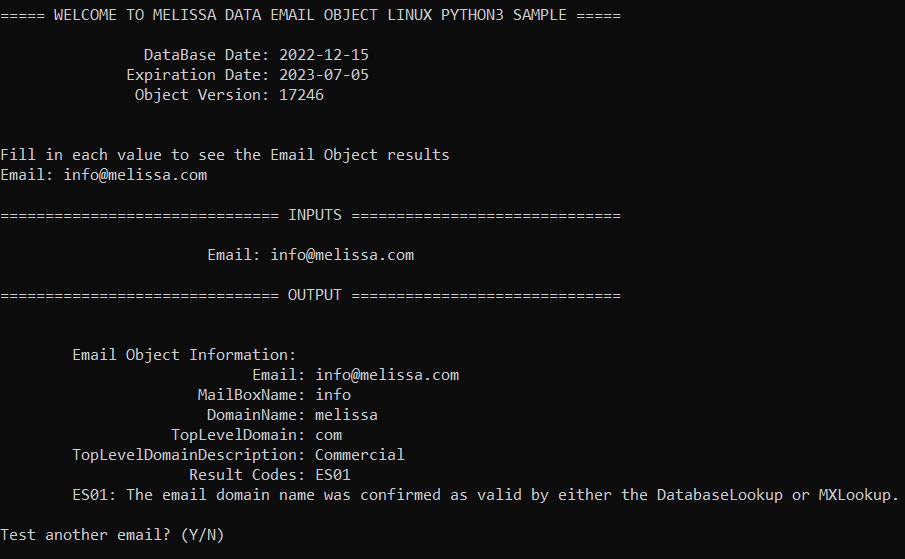
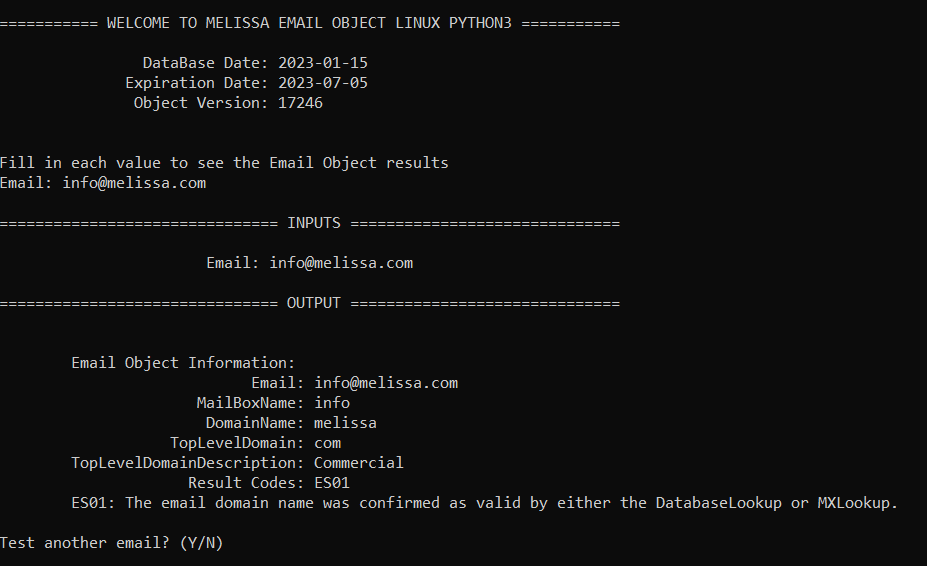
Commit Python3 code for Email Object with release notes

diff --git a/MelissaEmailObjectLinuxPython3/MelissaEmailObjectLinuxPython3.py b/MelissaEmailObjectLinuxPython3/MelissaEmailObjectLinuxPython3.py
@@ -33,7 +33,7 @@ class EmailObject:
         print(f"              Expiration Date: {self.md_email_obj.GetLicenseStringExpirationDate()}")
       
         """
-        This number should match with file properties of the Melissa Data Object binary file.
+        This number should match with file properties of the Melissa Object binary file.
         If TEST appears with the build number, there may be a license key issue.
         """
         print(f"               Object Version: {self.md_email_obj.GetBuildNumber()}\n")
@@ -52,8 +52,8 @@ class EmailObject:
         result_codes = self.md_email_obj.GetResults()
 
         """ 
-        ResultsCodes explain any issues email object has with the object.
-        List of result codes for Email object
+        ResultsCodes explain any issues Email Object has with the object.
+        List of result codes for Email Object
         https://wiki.melissadata.com/?title=Result_Code_Details#Email_Object
         """
 
@@ -81,7 +81,7 @@ def parse_arguments():
     return (license, test_email, data_path)
 
 def run_as_console(license, test_email, data_path):
-    print("\n\n===== WELCOME TO MELISSA DATA EMAIL OBJECT LINUX PYTHON3 SAMPLE =====\n")
+    print("\n\n=========== WELCOME TO MELISSA EMAIL OBJECT LINUX PYTHON3 ===========\n")
 
     email_object = EmailObject(license, data_path)
 
@@ -145,7 +145,7 @@ def run_as_console(license, test_email, data_path):
             
               print("Invalid Response, please respond 'Y' or 'N'")
 
-    print("\n=========== THANK YOU FOR USING MELISSA DATA PYTHON3 OBJECT =========\n")
+    print("\n============== THANK YOU FOR USING MELISSA PYTHON3 OBJECT ===========\n")
     
 
 

diff --git a/MelissaEmailObjectLinuxPython3/mdEmail_pythoncode.py b/MelissaEmailObjectLinuxPython3/mdEmail_pythoncode.py
@@ -6,15 +6,11 @@ import os
 
 dir = os.getcwd()
 
-#lib = ctypes.CDLL('libmdEmail.so')
-#lib = ctypes.CDLL(f'{dir}\libmdEmail.so')
-#lib = ctypes.CDLL(f'{dir}/MelissaDataEmailObjectWindowsPython3Sample/mdEmail.dll')
-
 
 if (os.name == 'nt'):
-  lib = ctypes.CDLL(f'{dir}/MelissaDataEmailObjectWindowsPython3Sample/mdEmail.dll')
+  lib = ctypes.CDLL(f'{dir}/MelissaEmailObjectWindowsPython3/mdEmail.dll')
 else:
-  lib = ctypes.CDLL(f'{dir}/MelissaDataEmailObjectLinuxPython3Sample/libmdEmail.so')
+  lib = ctypes.CDLL(f'{dir}/MelissaEmailObjectLinuxPython3/libmdEmail.so')
 
 lib.mdEmailCreate.argtypes = []
 lib.mdEmailCreate.restype = c_void_p

diff --git a/README.md b/README.md
@@ -1,8 +1,12 @@
-# Melissa Data Email Object Linux Python3 Sample
+# Melissa - Email Object Linux Python3
 
 ## Purpose
 
-This is a sample of the Melissa Data Email Object using Python3
+This code showcases the Melissa Email Object using Python3
+
+Please feel free to copy or embed this code to your own project. Happy coding!
+
+For the latest Melissa Email Object release notes, please visit: https://releasenotes.melissa.com/on-premise-api/email-object/
 
 The console will ask the user for:
 
@@ -26,7 +30,7 @@ And return
 
 #### libmdEmail.so
 
-This is the c++ code of the Melissa Data Object.
+This is the c++ code of the Melissa Object.
 
 #### Data File(s)
 - mdEmail.cfg
@@ -37,23 +41,13 @@ These instructions will get you a copy of the project up and running on your loc
 
 This project is compatible with Python3
 
-#### Install the Python3
+#### Install Python3
 Before starting, make sure that Python3 has been correctly installed on your machine and your environment paths are configured. 
 
 You can download Python here: 
 https://www.python.org/downloads/
 
-To set up your Path correctly to use the python3 command, execute the following steps:
-1) Run Powershell as an administrator 
-2) Execute the command: 
-`New-Item -ItemType SymbolicLink -Path "Link" -Target "Target"`
-
-    where "Target" is the path to py.exe (by default this should be "C:\Windows\py.exe")\
-    and "Link" is the path to py.exe, but "py.exe" is replaced with "python3.exe"\
-    For Example:\
-    `New-Item -ItemType SymbolicLink -Path "C:\Windows\python3.exe" -Target "C:\Windows\py.exe"`
-
-If you are unsure, you can check by opening a command prompt window and typing the following:
+You can check that your environment is set up correctly by opening a command prompt window and typing the following:
 `python3 --version`
 
 ![alt text](/screenshots/python_version.PNG)
@@ -97,26 +91,26 @@ Melissa Updater is a CLI application allowing the user to update their Melissa a
 
 #### Different ways to get data file(s)
 1.  Using Melissa Updater
-	- It will handle all of the data download/path and dll(s) for you. 
-2.  If you already have the latest DQS Release (ZIP), you can find the data file(s) and dll(s) in there
-	- Use the location of where you copied/installed the data and update the "$DataPath" variable in the powershell script.
-	- Copy all the dll(s) mentioned above into the `MelissaDataEmailObjectLinuxPython3Sample` project folder.
+	- It will handle all of the data download/path and .so file(s) for you. 
+2.  If you already have the latest DQS Release (ZIP), you can find the data file(s) and .so file(s) in there
+	- Use the location of where you copied/installed the data and update the "DataPath" variable in the bash script.
+	- Copy all the .so file(s) mentioned above into the `MelissaEmailObjectLinuxPython3` project folder.
 	
 ----------------------------------------
 ### Change Bash Script Permissions
 To be able to run the bash script, you must first make it an executable using the command:
 
-`chmod +x MelissaDataEmailObjectLinuxPython3Sample.sh`
+`chmod +x MelissaEmailObjectLinuxPython3.sh`
 
 Then you need to add permissions to the build directory with the command:
 
-`chmod +rwx MelissaDataEmailObjectLinuxPython3Sample`
+`chmod +rwx MelissaEmailObjectLinuxPython3`
 
 As an indicator, the filename will change colors once it becomes an executable.
 
-You may also need to alter permissions for the python files. To do this navigate into the MelissaDataEmailObjectLinuxPython3Sample directory and run these commands: \
- `chmod +rx MelissaDataEmailObjectLinuxPython3Sample/MelissaDataEmailObjectLinuxPython3Sample.py` \
- `chmod +rx MelissaDataEmailObjectLinuxPython3Sample/mdEmail_pythoncode.py`
+You may also need to alter permissions for the python files. To do this navigate into the MelissaEmailObjectLinuxPython3 directory and run these commands: \
+ `chmod +rx MelissaEmailObjectLinuxPython3/MelissaEmailObjectLinuxPython3.py` \
+ `chmod +rx MelissaEmailObjectLinuxPython3/mdEmail_pythoncode.py`
 
 ## Run Bash Script
 
@@ -125,30 +119,30 @@ Parameters:
  	
   This is convenient when you want to get results for a specific email address in one run instead of testing multiple email addresses in interactive mode.  
 
-- -l or --license (optional): a license string to test the email object
+- -l or --license (optional): a license string to test the Email Object
 
 - -q or --quiet (optional): add to the command if you do not want to get any console output from the Melissa Updater
 - Interactive 
 
-	The script will prompt the user for an email address, then use the provided email to test Email object. For example:
+	The script will prompt the user for an email address, then use the provided email to test Email Object. For example:
 	```
-	$ ./MelissaDataEmailObjectLinuxPython3Sample.sh
+	$ ./MelissaEmailObjectLinuxPython3.sh
 	```
     For quiet mode:
     ```
-    $ ./MelissaDataEmailObjectLinuxPython3Sample.sh --quiet
+    $ ./MelissaEmailObjectLinuxPython3.sh -quiet
     ```
 - Command Line 
 
-	You can pass an email in ```--email``` parameter and a license string in ```--license``` parameter to test Email object. For example:
+	You can pass an email in ```--email``` parameter and a license string in ```--license``` parameter to test Email Object. For example:
 	```
-    $ ./MelissaDataEmailObjectLinuxPython3Sample.sh --email "info@melissa.com" 
-    $ ./MelissaDataEmailObjectLinuxPython3Sample.sh --email "info@melissa.com" --license "<your_license_string>"
+    $ ./MelissaEmailObjectLinuxPython3.sh --email "info@melissa.com" 
+    $ ./MelissaEmailObjectLinuxPython3.sh --email "info@melissa.com" --license "<your_license_string>"
     ```
 	For quiet mode:
     ```
-    $ ./MelissaDataEmailObjectLinuxPython3Sample.sh --email "info@melissa.com" --quiet
-    $ ./MelissaDataEmailObjectLinuxPython3Sample.sh --email "info@melissa.com" --license "<your_license_string>" --quiet
+    $ ./MelissaEmailObjectLinuxPython3.sh --email "info@melissa.com" --quiet
+    $ ./MelissaEmailObjectLinuxPython3.sh --email "info@melissa.com" --license "<your_license_string>" --quiet
     ```
 This is the expected output from a successful setup for interactive mode:
 
@@ -157,22 +151,22 @@ This is the expected output from a successful setup for interactive mode:
     
 ## Troubleshooting
 
-Troubleshooting for errors found while running your sample program.
+Troubleshooting for errors found while running your program.
 
 ### Errors:
 
 | Error      | Description |
 | ----------- | ----------- |
 | ErrorRequiredFileNotFound      | Program is missing a required file. Please check your Data folder and refer to the list of required files above. If you are unable to obtain all required files through the Melissa Updater, please contact technical support below. |
-| ErrorDatabaseExpired   | .db file(s) are expired. Please make sure you are downloading and using the latest release version. (If using the Melissa Updater, check powershell script for 'RELEASE_VERSION = {version}'  and change the release version if you are using an out of date release).     |
-| ErrorFoundOldFile   | File(s) are out of date. Please make sure you are downloading and using the latest release version. (If using the Melissa Updater, check powershell script for 'RELEASE_VERSION = {version}'  and change the release version if you are using an out of date release).    |
+| ErrorDatabaseExpired   | .db file(s) are expired. Please make sure you are downloading and using the latest release version. (If using the Melissa Updater, check bash script for 'RELEASE_VERSION = {version}'  and change the release version if you are using an out of date release).     |
+| ErrorFoundOldFile   | File(s) are out of date. Please make sure you are downloading and using the latest release version. (If using the Melissa Updater, check bash script for 'RELEASE_VERSION = {version}'  and change the release version if you are using an out of date release).    |
 | ErrorLicenseExpired   | Expired license string. Please contact technical support below. |
 
 
 ## Contact Us
 
 For free technical support, please call us at 800-MELISSA ext. 4
-(800-635-4772 ext. 4) or email us at tech@MelissaData.com.
+(800-635-4772 ext. 4) or email us at tech@melissa.com.
 
-To purchase this product, contact Melissa Data sales department at
+To purchase this product, contact Melissa sales department at
 800-MELISSA ext. 3 (800-635-4772 ext. 3).

diff --git a/LICENSE.md b/LICENSE.md
@@ -1,0 +1,21 @@
+MIT License
+
+Copyright (c) Melissa Data Corporation
+
+Permission is hereby granted, free of charge, to any person obtaining a copy
+of this software and associated documentation files (the "Software"), to deal
+in the Software without restriction, including without limitation the rights
+to use, copy, modify, merge, publish, distribute, sublicense, and/or sell
+copies of the Software, and to permit persons to whom the Software is
+furnished to do so, subject to the following conditions:
+
+The above copyright notice and this permission notice shall be included in all
+copies or substantial portions of the Software.
+
+THE SOFTWARE IS PROVIDED "AS IS", WITHOUT WARRANTY OF ANY KIND, EXPRESS OR
+IMPLIED, INCLUDING BUT NOT LIMITED TO THE WARRANTIES OF MERCHANTABILITY,
+FITNESS FOR A PARTICULAR PURPOSE AND NONINFRINGEMENT. IN NO EVENT SHALL THE
+AUTHORS OR COPYRIGHT HOLDERS BE LIABLE FOR ANY CLAIM, DAMAGES OR OTHER
+LIABILITY, WHETHER IN AN ACTION OF CONTRACT, TORT OR OTHERWISE, ARISING FROM,
+OUT OF OR IN CONNECTION WITH THE SOFTWARE OR THE USE OR OTHER DEALINGS IN THE
+SOFTWARE.
